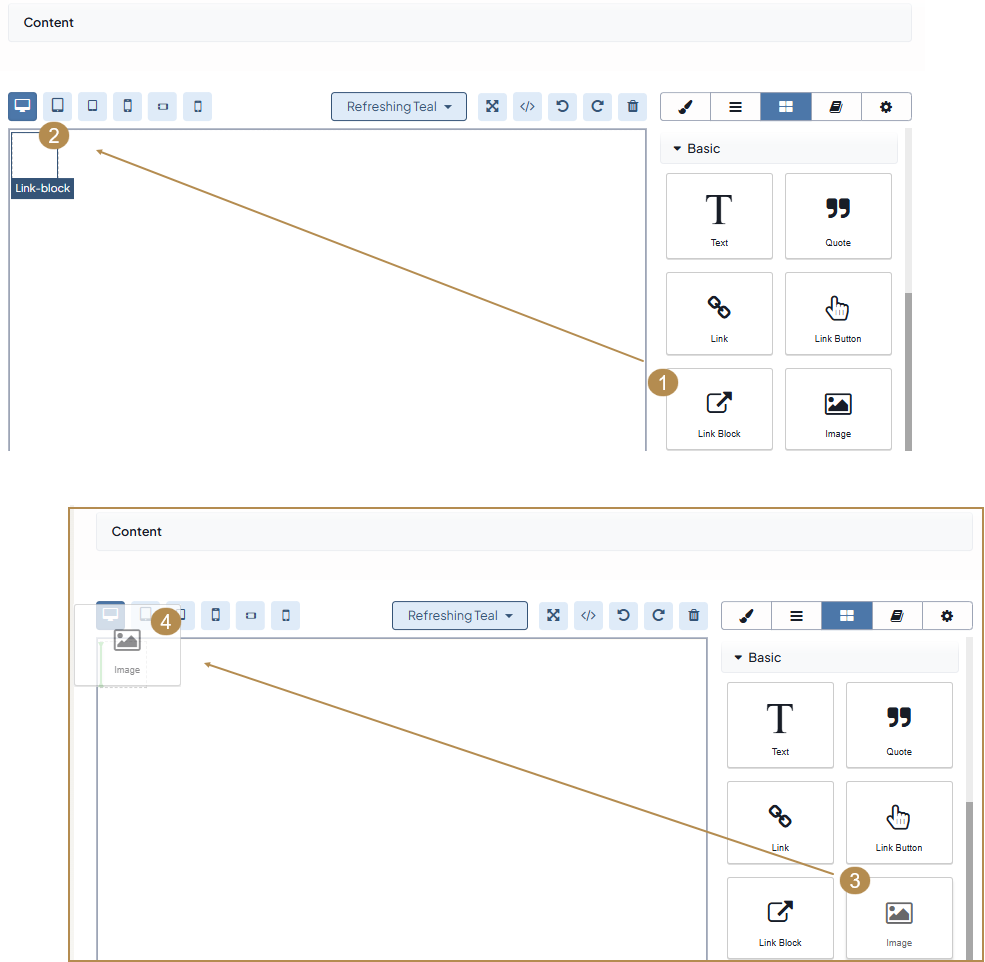
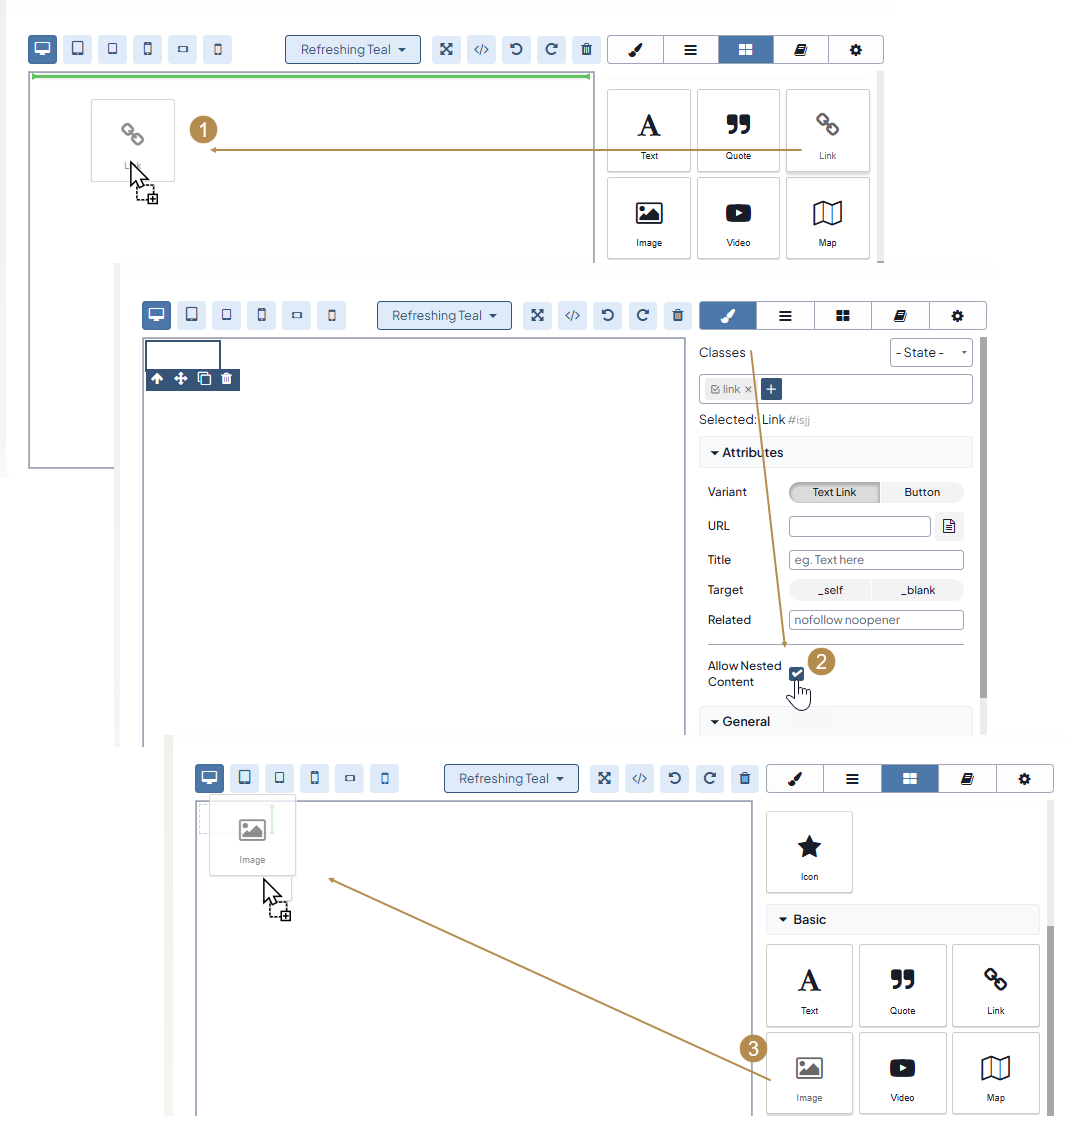
DOC-2507: Update the WYSIWYG documentation to reflect the updated Link block functionality (#45829)

diff --git a/user/concept-guides/content-management/wysiwyg.rst b/user/concept-guides/content-management/wysiwyg.rst
@@ -61,7 +61,7 @@ WYSIWYG enables you to do the following:
 Add Formatting and Styles to Text Block
 ^^^^^^^^^^^^^^^^^^^^^^^^^^^^^^^^^^^^^^^
 
-To add formatting such as bold, italic, and underlining to your text, you need to drag the text block, enter the required text, and left-click the block to display the menu with additional formatting options.
+To add formatting such as bold, italic, and underlining to your text, you need to drag the **Text Section** block, enter the required text, and left-click the block to display the menu with additional formatting options.
 
 .. image:: /user/img/concept-guides/content-management/format_text.png
    :alt: Display the menu with additional formatting options
@@ -130,6 +130,22 @@ If H2, H3, or any other formatting is applied to the text, then you have several
 .. image:: /user/img/concept-guides/content-management/shifting_formatted_text.png
    :alt: Shifting the formatted text using Enter and Enter+Shift
 
+Insert a Button
+^^^^^^^^^^^^^^^
+
+To add a button to your content, do the following:
+
+1. Insert the **Link** block to the canvas.
+2. Navigate to **Style Manager > Attributes**.
+3. For **Variants**, click **Button**.
+4. Configure the button settings as needed:
+
+    * Add the button URL, title, and other details.
+    * Choose the button style: *Primary, Outlined*, or *Plain*.
+    * Enable an icon if needed and select its position.
+
+.. image:: /user/img/concept-guides/content-management/insert_button.png
+   :alt: The steps you need to take to add the button to your content
 
 
 Insert Multimedia
@@ -229,14 +245,19 @@ To insert an image to your content, you need to drag the image block to the canv
 Insert Clickable Images
 ^^^^^^^^^^^^^^^^^^^^^^^
 
-To add a clickable image to your content, you must first insert the Link Block (1,2). Then, place the image block inside the link block (3,4).
+To add a clickable image to your content, do the following:
+
+1. Insert the **Link** block to the canvas.
+2. In the **Style Manager** section, enable the **Allow Nested Content** checkbox.
+3. Insert the **Image** block inside the link block.
 
 .. image:: /user/img/concept-guides/content-management/insert_clickable_image_1.png
    :alt: The steps you need to expose to add the link block to your content
 
-Click the link block again to display the **Style Manager** menu settings. In the **Settings** section, input the link for the image to direct people to the necessary website, once they click the image in the storefront.
+4. Move to the link block and open the **Style Manager** tab.
+5. In the **Attributes** section, input the URL and title for the image to direct users to the necessary website, once they click the image in the storefront.
 
-.. image:: /user/img/concept-guides/content-management/insert_clickable_image_3.png
+.. image:: /user/img/concept-guides/content-management/insert_clickable_image_2.png
    :alt: Add the link to the link block in the Settings section under the Style Manager menu
 
 
